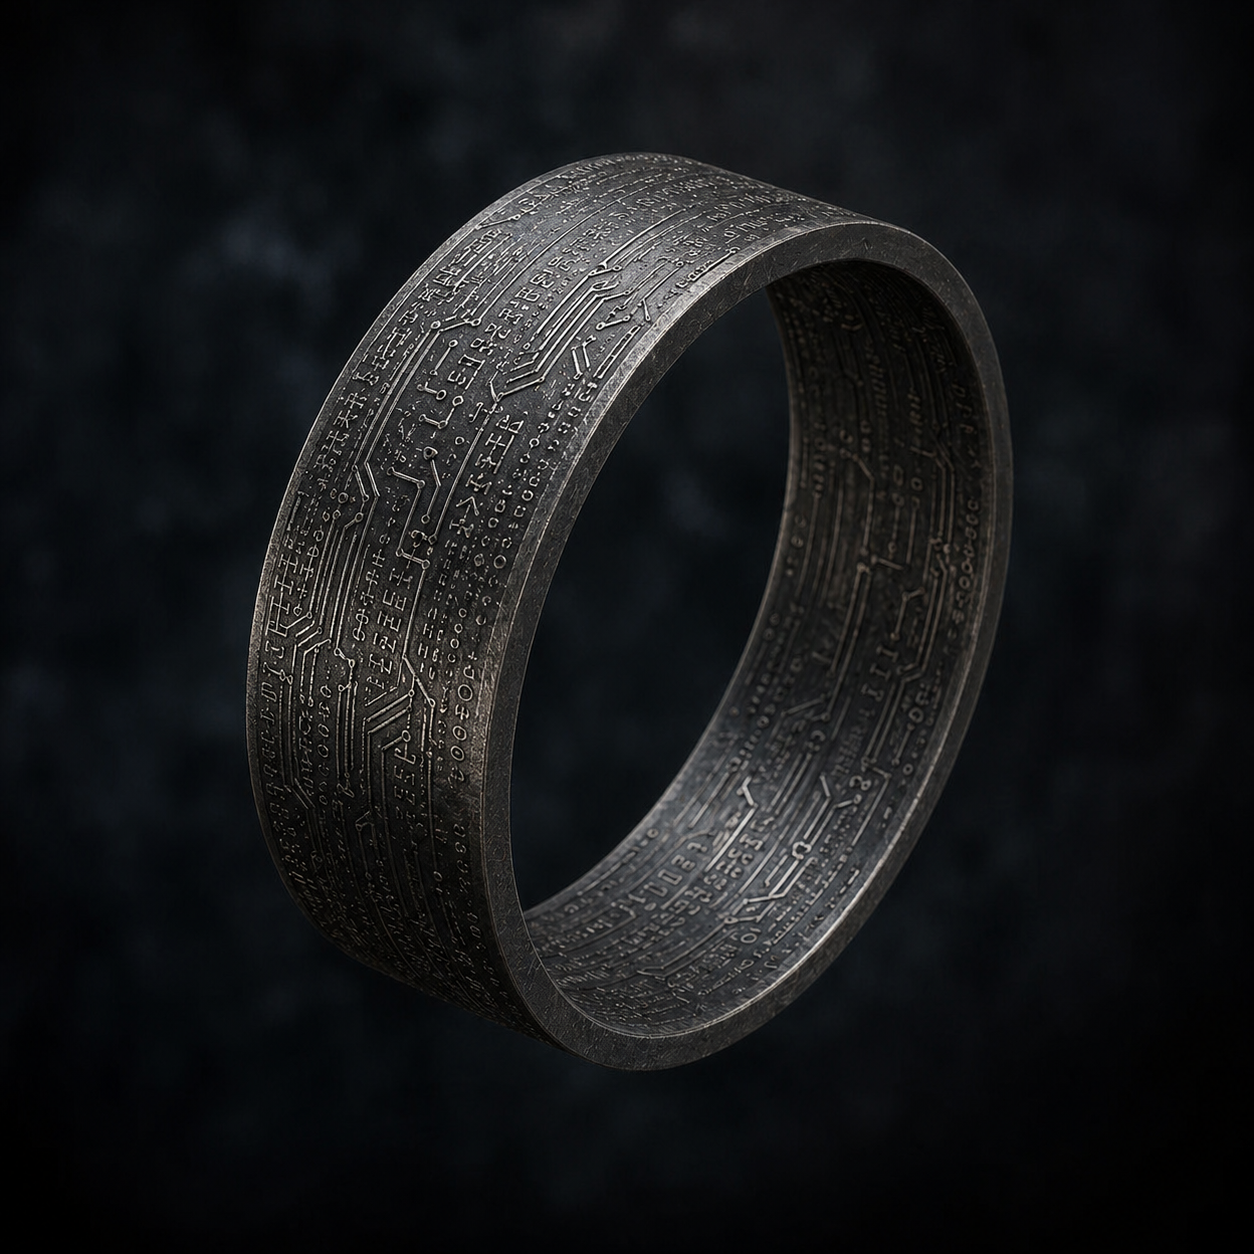
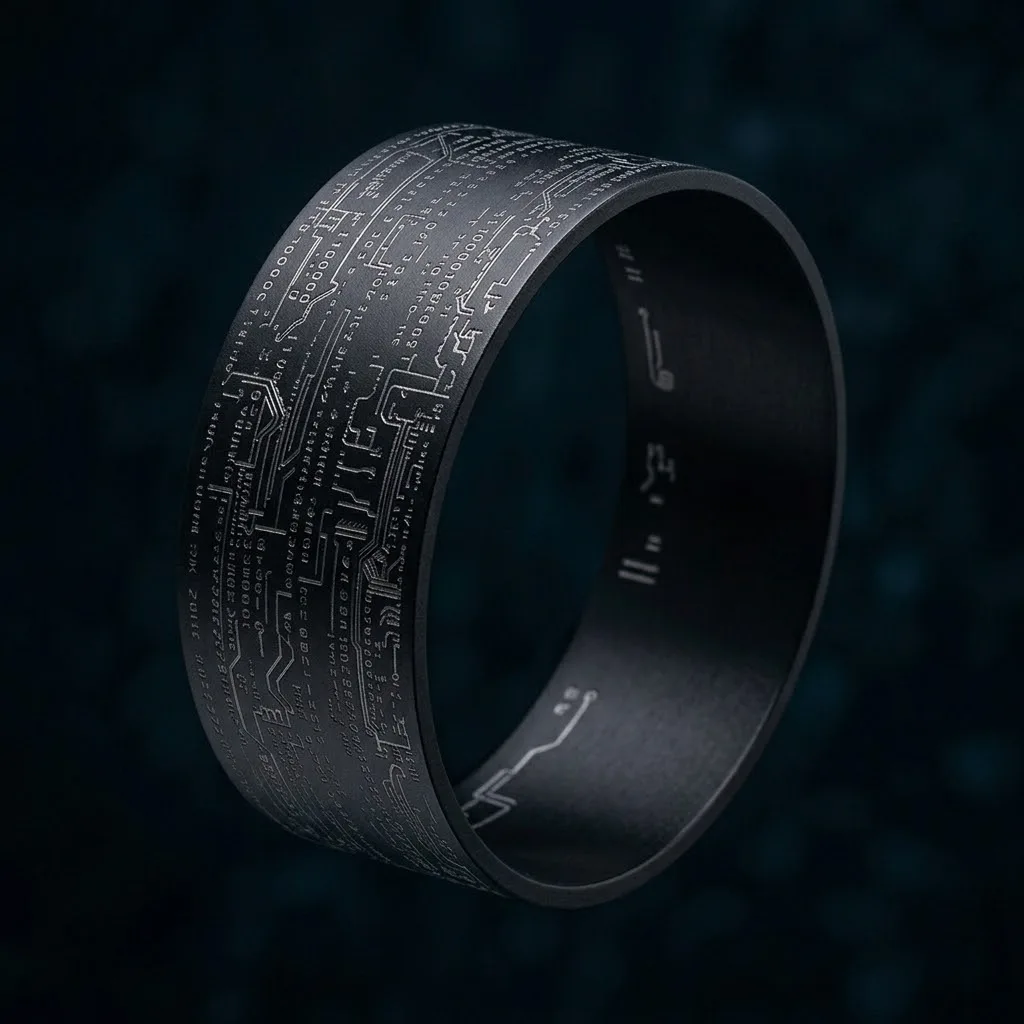
Refine bracelet and Lu Chen concept baselines

diff --git a/资源/设定图/陆辰/luchen-repaint-v2.md b/资源/设定图/陆辰/luchen-repaint-v2.md
@@ -1,0 +1,17 @@
+# 陆辰设定图反推重绘 · v2
+
+## 对象
+- 陆辰
+- 类型：角色设定图重绘测试
+- 用途：修正 v1 年龄感偏老、手环样式漂移的问题
+- 目标画幅：`1:1`
+
+## 修正目标
+- 人物年龄感回到当前公开图的 30 岁上下区间
+- 保持当前公开图的骨相、眼神、发型和克制感
+- 左手腕次元手环回到更简洁的原始公开样式
+- 维持设定图档案感，不做剧情海报
+
+## 当前结果
+- 测试图：`资源/设定图/陆辰/luchen-repaint-v2.png`
+- 结论：相较 `v1`，已压回更年轻的年龄感，并纠正了左腕手环样式漂移

diff --git a/.agents/skills/setting_art_generator/references/review_checklist.md b/.agents/skills/setting_art_generator/references/review_checklist.md
@@ -6,6 +6,8 @@
 - 生理结构是否自洽
 - 义体、装备、接口位置是否合理
 - 材质和时代感是否正确
+- 若对象是陆辰或陆晓晓，年龄感、骨相、发型和识别度是否严格锁回当前公开图
+- 若对象是已公开道具，是否错误漂移了原始公开样式（尤其轮廓、刻线密度、材质层级）
 - 是否画成剧情海报而不是设定图
 - 是否保持 `1:1` 正方形图鉴基线
 - 是否错误出现文字、说明框、参数表、边框 UI

diff --git a/资源/设定图/次元手环/bracelet-repaint-v1.md b/资源/设定图/次元手环/bracelet-repaint-v1.md
@@ -20,6 +20,7 @@
 
 ### 修正项
 - 旧图已经基本符合设定，不需要推翻
+- 本轮已回退到更接近原始公开图的简洁样式，避免把刻线、材质和内圈结构过度复杂化
 - 新测试主要验证 skill 是否能稳定处理“道具类”而不只是人物/种族
 
 ### 强化项
